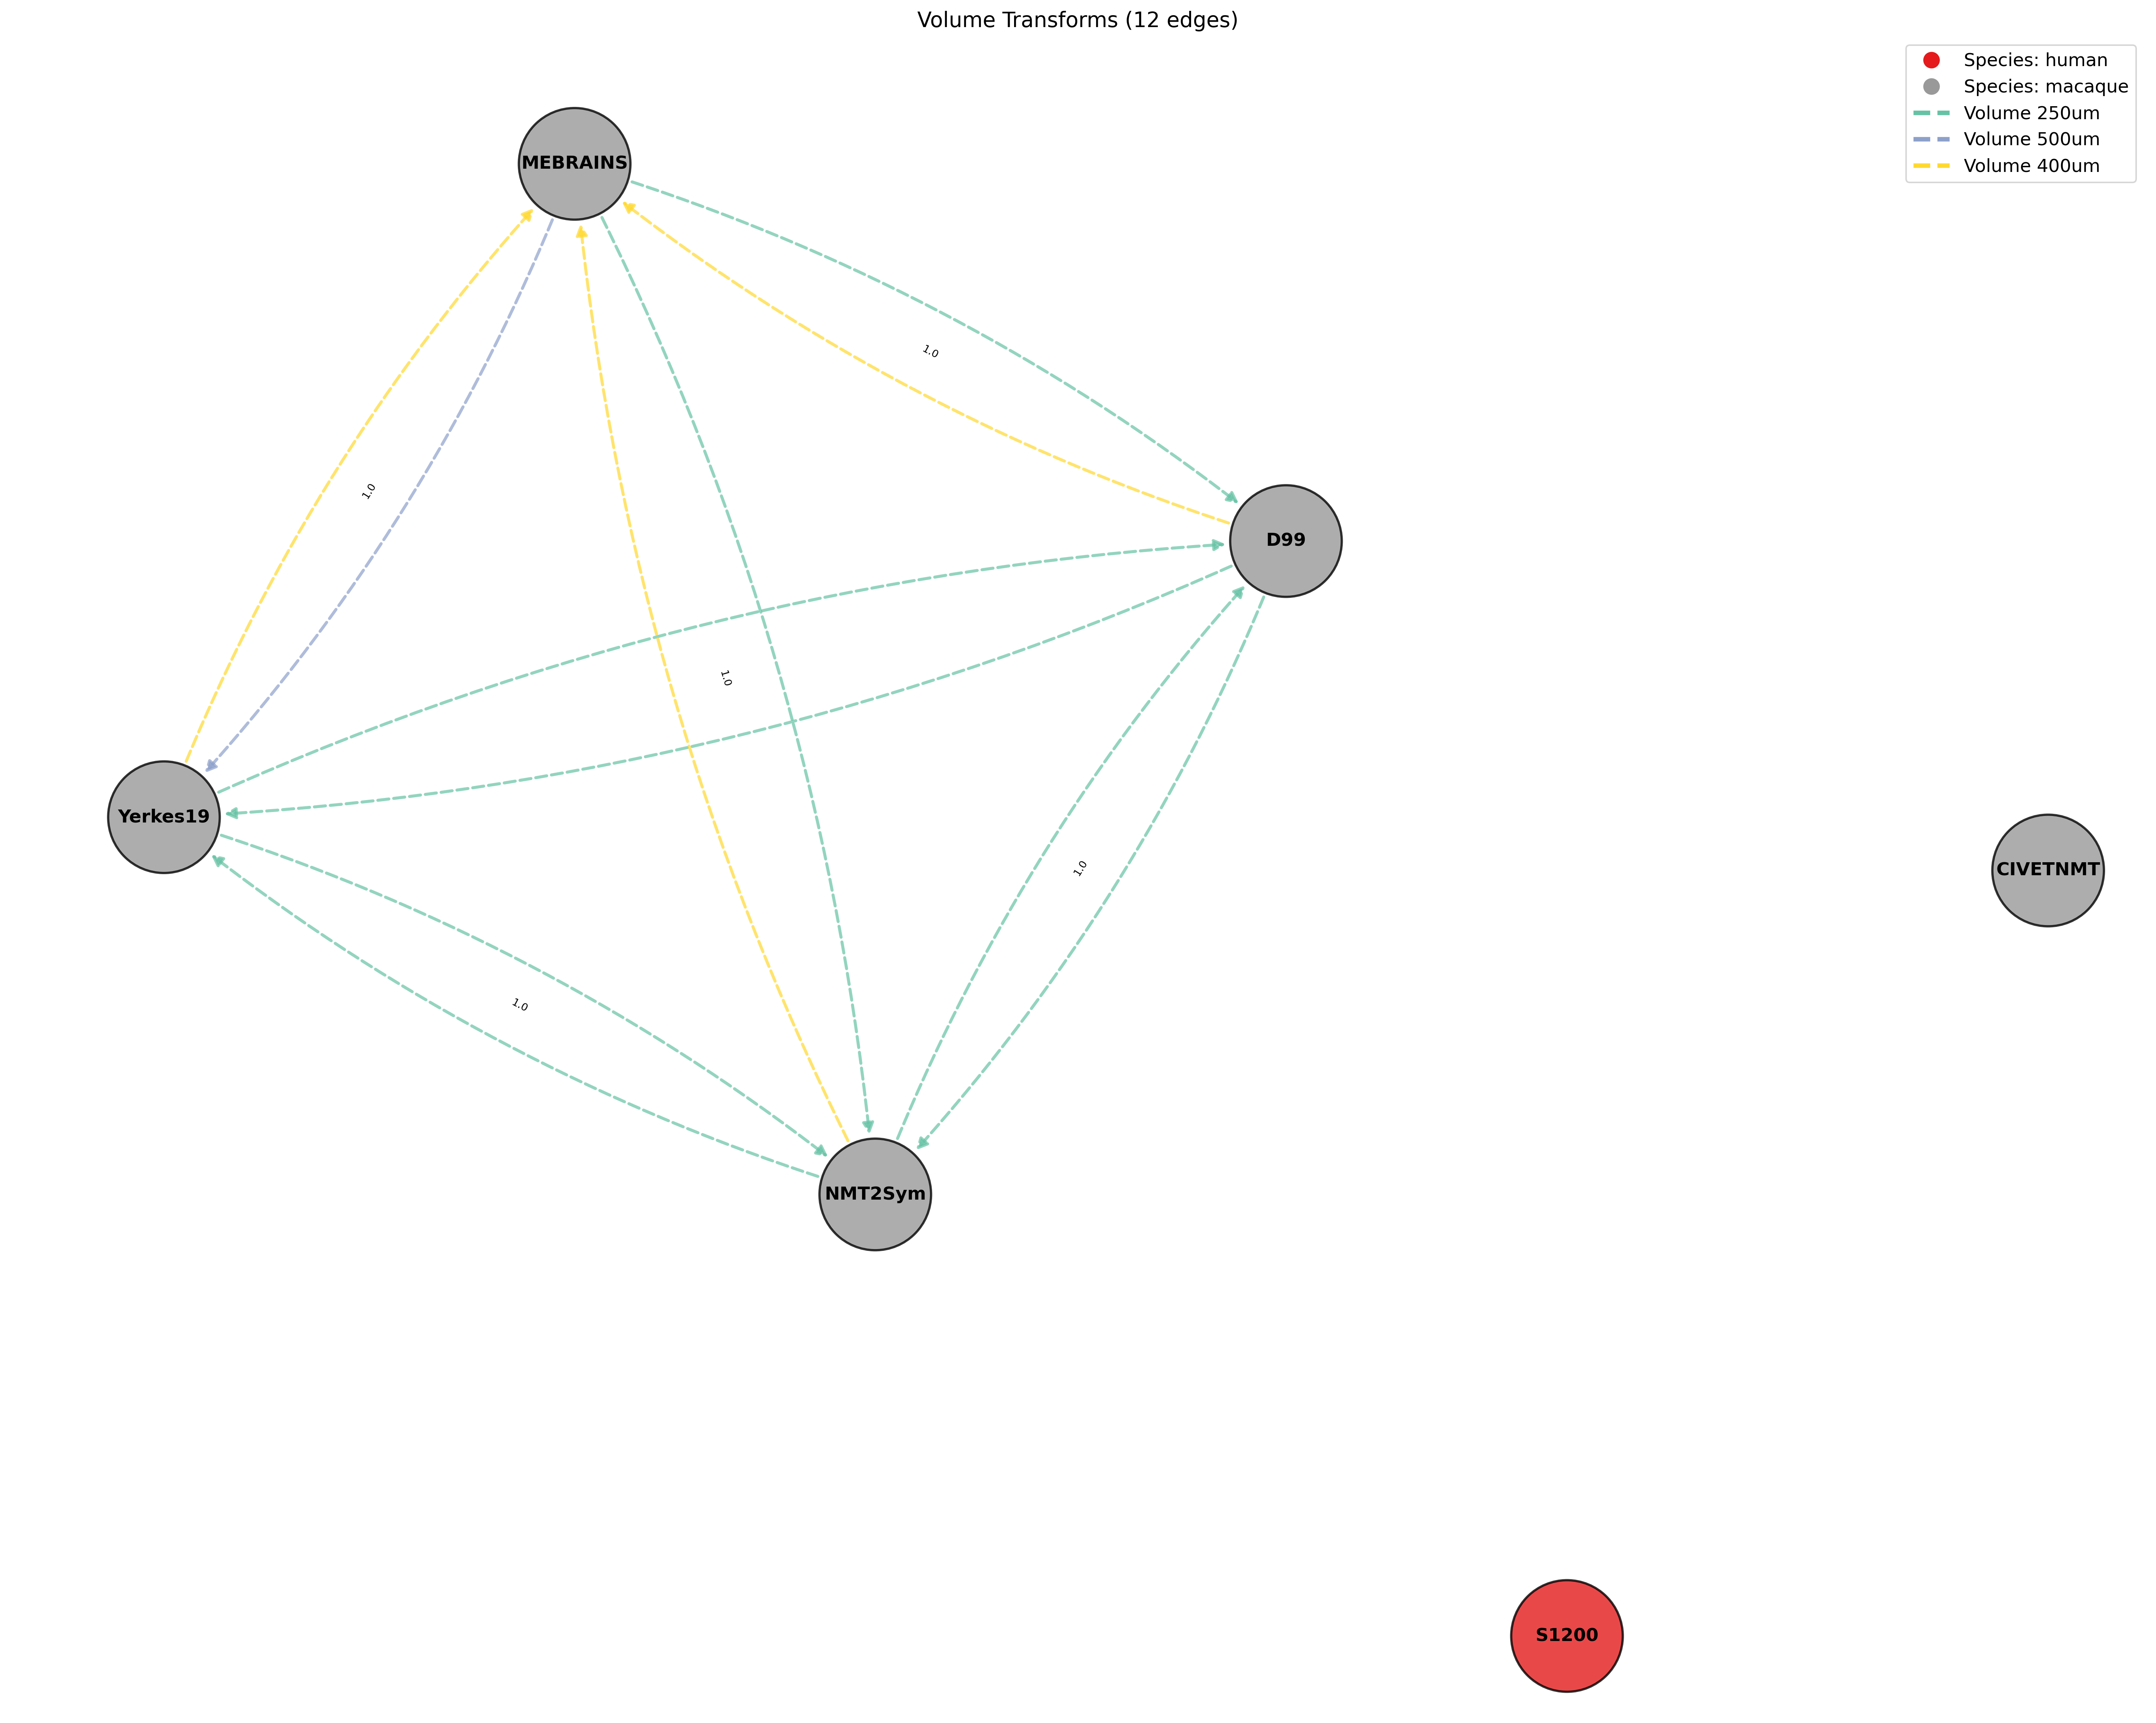
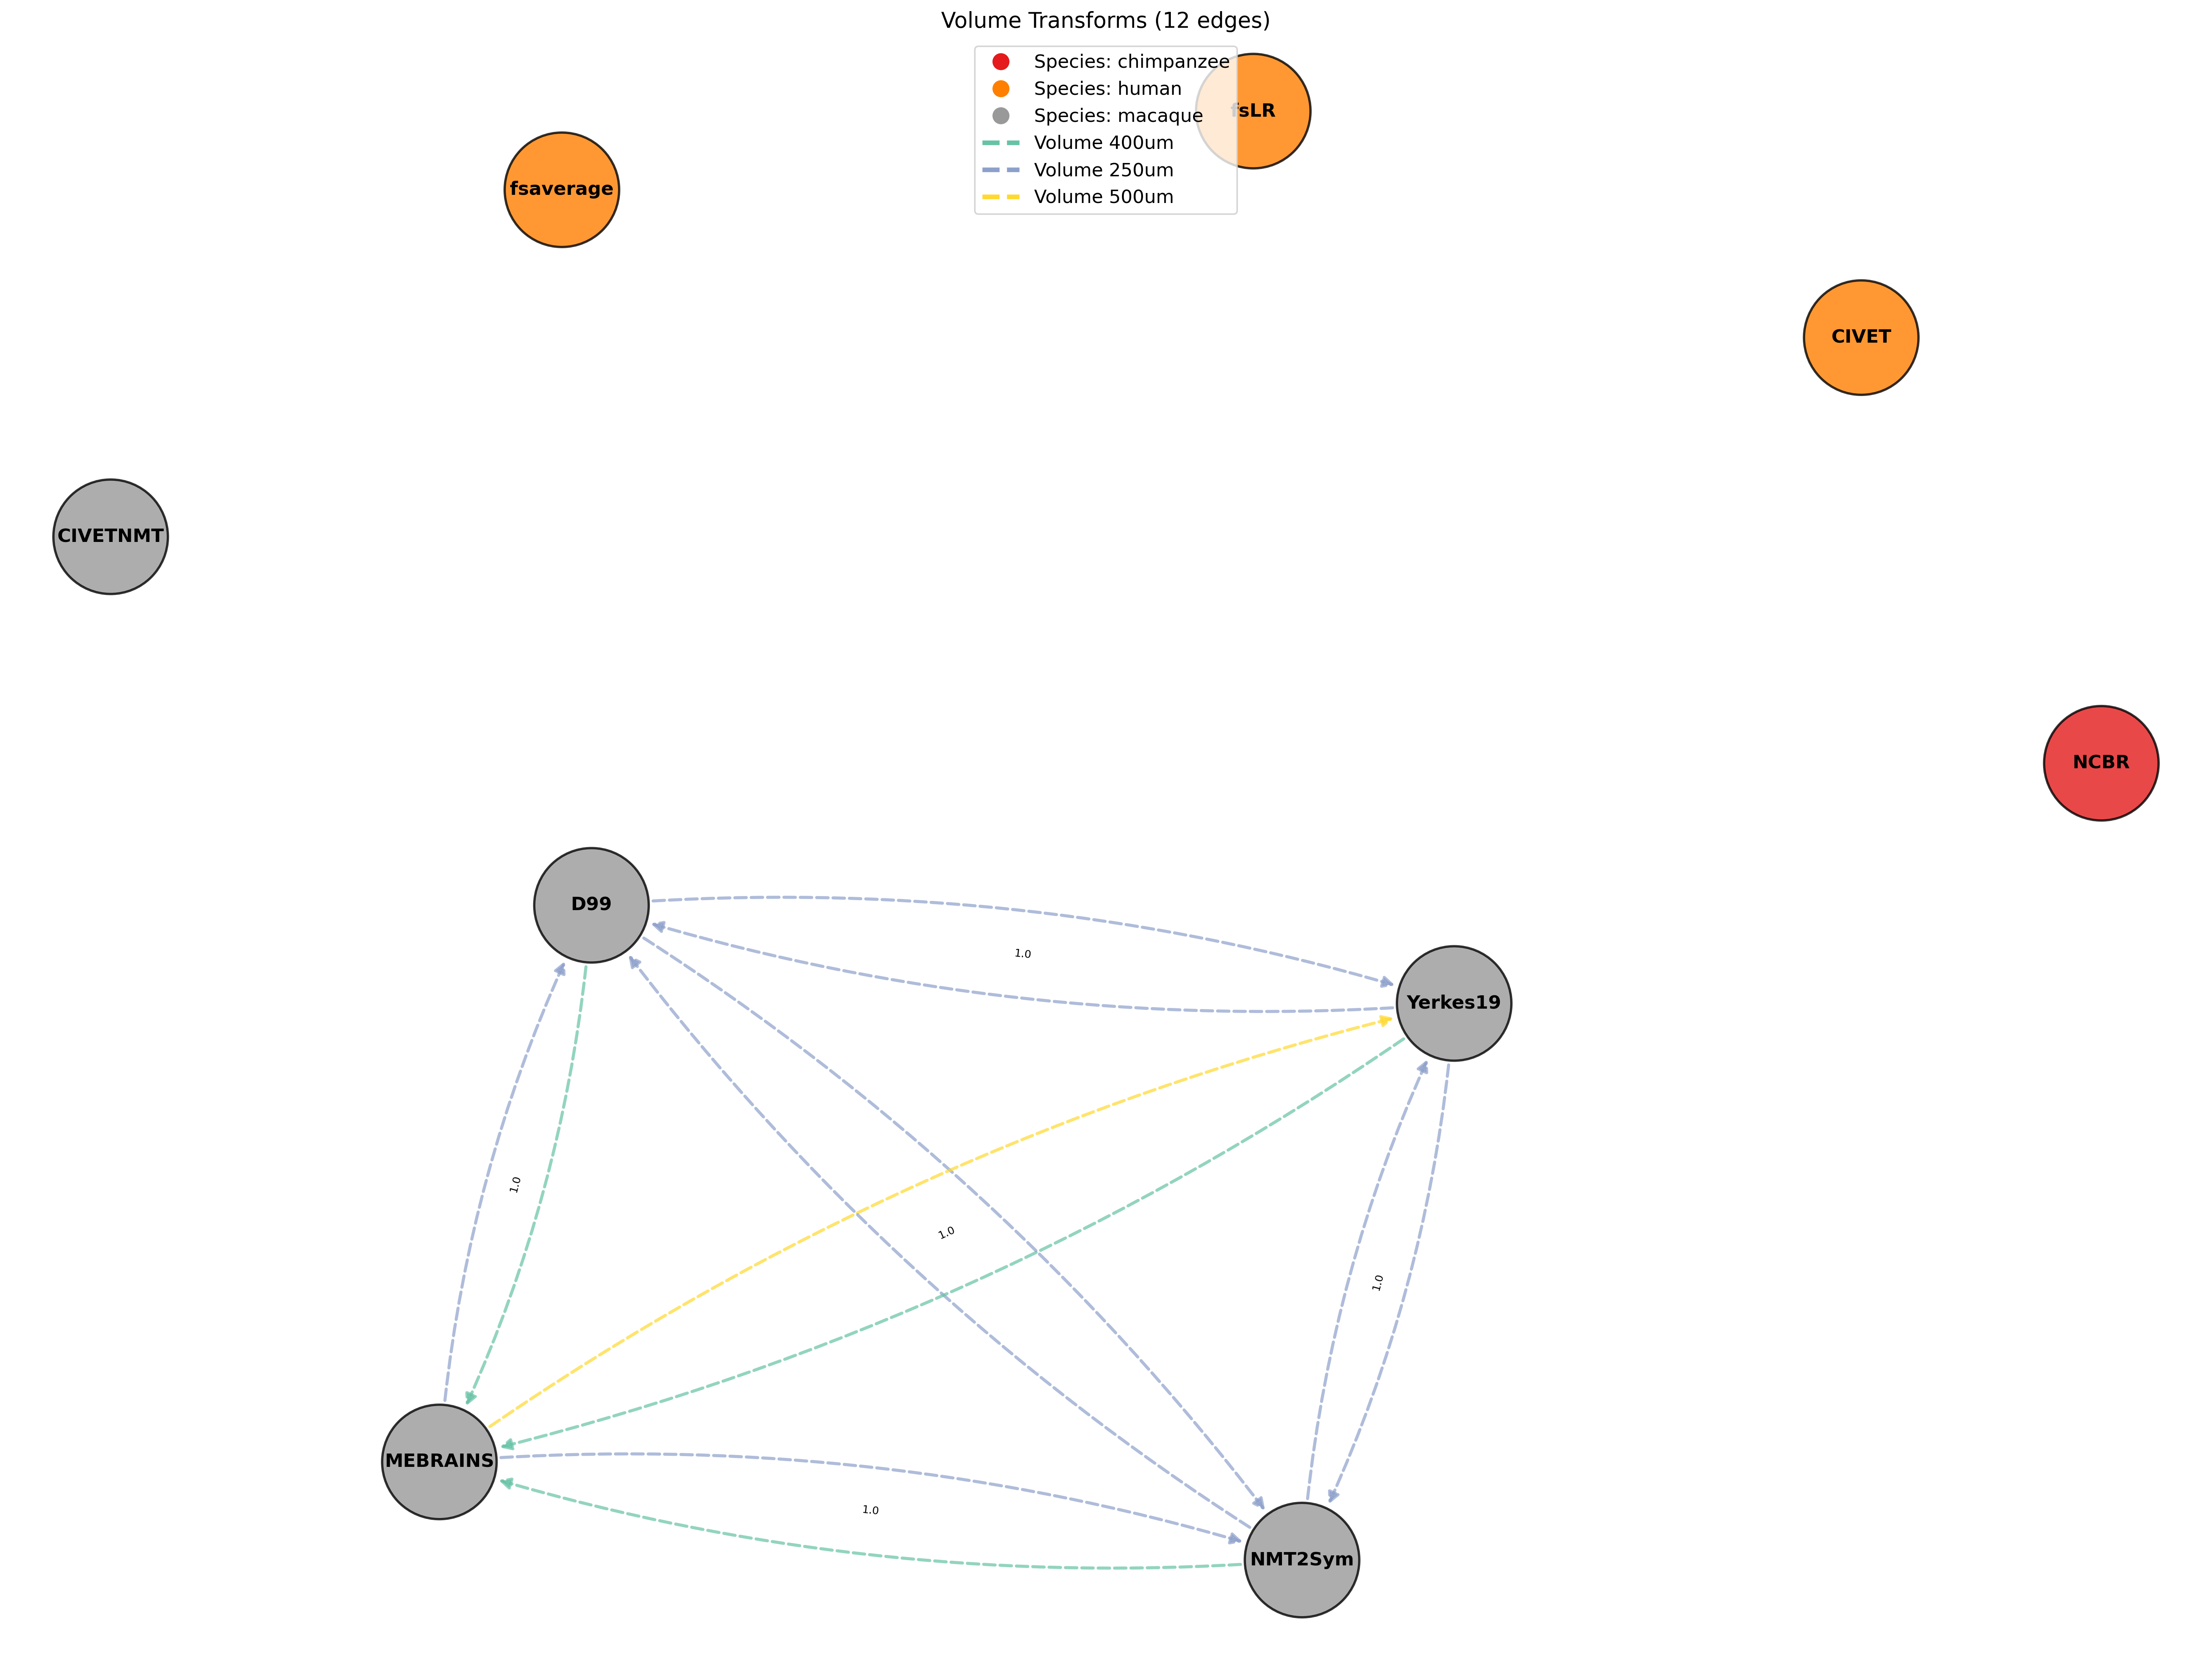
consistent source & target

diff --git a/examples/example_graph_init.py b/examples/example_graph_init.py
@@ -20,7 +20,7 @@ from neuromaps_prime.plotting import plot_graph
 
 
 # Configuration (EDIT this path before running)
-DATA_DIR = Path("/path/to/nhp/data")
+DATA_DIR = Path("/Users/janhavi.pillai/Desktop/projects/neuromaps-nhp-prep")
 
 graph = NeuromapsGraph(data_dir=DATA_DIR)
 
@@ -37,7 +37,7 @@ for node in graph.nodes(data=False):
     print(f"  Species: {graph.get_node_data(node).species}")
 
 # Find and print paths between two nodes for different edge types
-source, target = "Yerkes19", "fsLR"
+source, target = "CIVETNMT", "Yerkes19"
 
 vol_path = graph.find_path(source, target, edge_type="volume_to_volume")
 print(f"Volume path {source} -> {target}: {vol_path}")